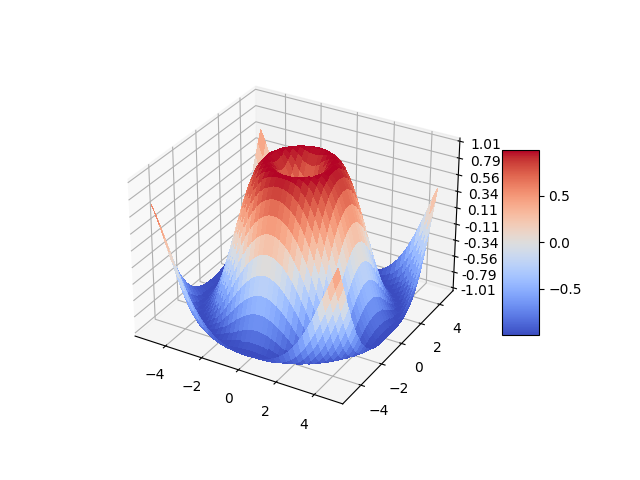
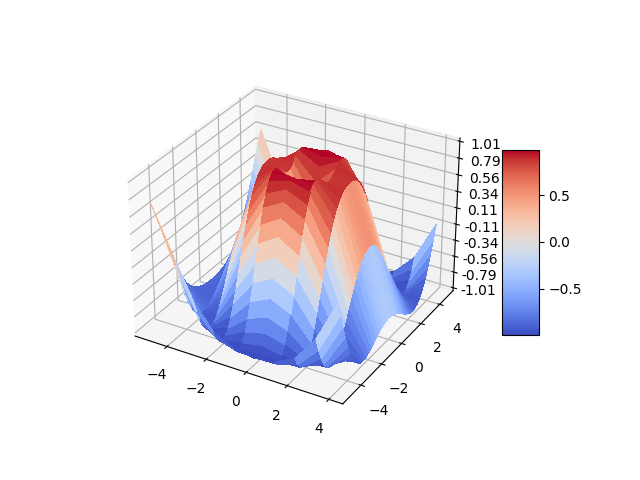
ma_stoerung_3d_plot

diff --git a/python/lyapunov_exponent.py b/python/lyapunov_exponent.py
@@ -30,8 +30,8 @@ def simu(sim, t):
     # Hide warning messages (WHFast timestep too large)
     with warnings.catch_warnings(record=True) as w:
          warnings.simplefilter("always")
-         sim.integrate(t*jov_yr)
-    return  sim,(sim.calculate_lyapunov()/(2.*np.pi)) # returns MEGNO and Lypunov exp in 1/years
+         sim.integrate(t)
+    return  sim,(sim.calculate_lyapunov()/(2.*np.pi)) # returns Lypunov exp in 1/years
 #--------------- plotlyapunov_t --------------------
 # lyapunov und zeit
 def plotlyapunov_t(lyapunov, times, k):
@@ -56,28 +56,44 @@ def plotlyapunov_a(l,a):
 def plotlyapunov_m(l,m):
     fig, ax1 = plt.subplots(1,1)
     ax1.set_xscale('log')
-    ax1.set(ylabel = 'Lyapunov-Exponent', xlabel = '$m$/$M_{Helga}$')
-    ax1.plot(m,l,'o-')
+    ax1.set(ylabel = 'Lyap.-Expo.', xlabel = '$m$/$M_{Helga}$')
+    if isinstance(l,list):
+        n_l = len(l)
+        for i in range(n_l):
+            steps = len(m[i])
+            ax1.plot(m[i],l[i],'o-', label = ' run %d with %d points' %(i,steps))
+    else: ax1.plot(m,l,'o-', label = 'a fixed')
+    ax1.legend()
     ax1.grid()
     return fig
-#---------------- plotlyapunov_mt ---------------------
-def plotlyapunov_ma(m,a,l):
+#---------------- plotlyapunov_mt_surface ---------------------
+def plotlyapunov_ma_surface(m,a,l):
     # print(m,a,l)
-    fig, ax = plt.subplots(subplot_kw={"projection": "3d"})
-    # m, a = np.meshgrid(m, a)
-    #ax.set_xscale('log')
-    # m,l = np.meshgrid(m,l)
-    ax.set(zlabel = 'Lyapunov-Exponent', xlabel = '$m$/$M_{Helga}$',
+    m = np.log10(m)
+    fig, ax = plt.subplots(subplot_kw={"projection": "3d"}, figsize=(10,8))
+    # print('shape m:', np.shape(m))
+    # print('shape a:', np.shape(a))
+    m, a = np.meshgrid(m, a)
+    print('shape m:', np.shape(m))
+    print('shape a:', np.shape(a))
+
+    # ax.set_xscale('log')
+    # ax.set_zscale('log')
+    ax.set(zlabel = 'Lyap.-Expo.', xlabel = '$\log_{10}$($m$/$M_{Helga})$',
                 ylabel= '$a$/$a_{Jupiter}$')
     # ax.set_xlim(1e-13, 1e-8)
     # ax.set_ylim(3.62,3.64 )
-    # Plot the surface.
+    # transpose lyapunovs
+    # print('shape l:', np.shape(l))
+    # l = np.log10(l)
+    l = np.transpose(l)
+    print('shape l:', np.shape(l))
+
+# Plot the surface.
     surf = ax.plot_surface(m, a, l, cmap=cm.coolwarm, linewidth=0, antialiased=False)
-    # Add a color bar which maps values to colors.
+# Add a color bar which maps values to colors.
     # fig.colorbar(surf, shrink=0.5, aspect=5)
     return fig
-
-
 # -------------- lyapunov_t_multiple ------------
 # creates a plot of lypanov-exponents over time for n EQUAL simulations of Helga
 # starting from given 'start' time and stepping in time with 'stepsize'
@@ -108,8 +124,9 @@ def lyapunov_t_multiple(n, start, end, steps):
     fig = plotlyapunov_t(lyapunov, times, k)
     fig.savefig('lyapunov_exp_t_mulitple.png')
 #------------------- plot lyapunov_a_multiple ------------
+# calculates lyap. expo. for a perturbation body of fixed mass and
+# varying distance to Helga
 # creates a plot of lyapunov-exponents over semi-major axis
-#
 def lyapunov_a_multiple(start,end,stepsize,t):
     # steps: number of setps
     steps = int((end-start)/stepsize) + 1
@@ -118,7 +135,6 @@ def lyapunov_a_multiple(start,end,stepsize,t):
     # lyapunov: Lyapunov-Exponenten
     H = np.arange(start,end,stepsize)
     lyapunov = np.zeros(steps)
-
     for i,h in enumerate(H):
         sim = visualize_orbit.setup('Helga',h) #jedes mal neu initialisiert
         # lyapunov = man_lyapunov(sim, [t])
@@ -126,7 +142,7 @@ def lyapunov_a_multiple(start,end,stepsize,t):
         lyapunov[i] = l
     fig = plotlyapunov_a(lyapunov,H)
     plt.title('Auswertung bei $t = %3d  2 \pi $' %t)
-    fig.savefig('lyapunov_exp_a_variation.png')
+    fig.savefig('lyapunov_exp_a_multiple.png')
 # -----------------------------------------------------------------
 def lyapunov_helga_m_stoerung(start, end, steps, t):
     # initialize arrays for data to be stored
@@ -136,9 +152,9 @@ def lyapunov_helga_m_stoerung(start, end, steps, t):
     masses = np.logspace(start, end, steps)
     # print(masses)
     m_Helga = 3e-13
-    a_Helga = 5.204
+    a_Jupiter = 5.204
     h = 0.696
-    a_stoer = (a_Helga+0.001)*h
+    a_stoer = (a_Jupiter+0.001)*h
     for k in range(0,steps,1):
         sim = visualize_orbit.setup('Helga',h)
         m_stoer = masses[k]*m_Helga
@@ -148,23 +164,51 @@ def lyapunov_helga_m_stoerung(start, end, steps, t):
         lyapunov[k] = l
     # print(lyapunov)
     fig = plotlyapunov_m(lyapunov, masses)
-    plt.title('$t = %3d  2 \pi $, $a_{Stoer}$/$a_{Jupiter}$ = %5.4f ' %(t,a_stoer))
-    fig.savefig('lyapunov_exp_m_variation.png')
+    plt.title('$t = %3d  2 \pi $, $a_{Stoer}$ = %5.4f ' %(t,a_stoer))
+    fig.savefig('lyapunov_exp_m_stoerung.png')
+
+#------------------ lyapunov_m_multiple_stoerung
+def lyapunov_m_multiple_stoerung(m_start,m_end,m_steps,m_t,m_runs):
+    lyapunovs_array = []
+    masses_array = []
+    m_Helga = 3e-13
+    a_Jupiter = 5.204
+    h = 0.696
+    a_stoer = (a_Jupiter+0.001)*h
+    for r in range(m_runs):
+        masses = (np.logspace(m_start, m_end, (2**r)*m_steps))
+        # print('Massen: ',masses, 'length: ', len(masses))
+        lyapunovs = [0]*((2**r)*m_steps)
+        for k in range((2**r)*m_steps):
+            m_stoer = masses[k] * m_Helga
+            sim = visualize_orbit.setup('Helga',h)
+            sim.add(m=m_stoer, a=a_stoer, M=38.41426796877275, omega=0.257, e=.08634521111588543 ,inc=0.0768 )  # Helga NASA
+            sim, l = simu(sim, m_t)
+            print(sim.N)
+            lyapunovs[k] = l
+        # print('lyapunovs: ' , lyapunovs, 'length: ', len(lyapunovs))
+        masses_array.append(masses)
+        lyapunovs_array.append(lyapunovs)
+    fig = plotlyapunov_m(lyapunovs_array, masses_array)
+    plt.title('$t = %3d  2 \pi $, $a_{Stoer}$ = %5.4f ' %(m_t,a_stoer))
+    fig.savefig('lyapunov_exp_m_multiple_stoerung.png')
+
 #----------------------------------------------------------------
 def lyapunov_helga_ma_stoerung(m_start,m_end,m_steps,a_start,a_end,a_steps,t):
     m_Helga = 3e-13
-    a_Helga = 5.204
+    a_Jupiter = 5.204
     h = 0.696
     # lyapunovs: O-array
     lyapunovs = np.zeros((m_steps, a_steps))
+    # print(lyapunovs)
     # masses: logaritmisch ansteigende Massenfaktoren
     masses = np.logspace(m_start, m_end, m_steps)
     masses2 = masses * m_Helga
-    print(masses2)
+    print('Massen: ',masses2)
     # a: linear ansteigende Halbachsenfaktoren
     a = np.linspace(a_start, a_end, a_steps)
-    a2= a*a_Helga
-    print(a2)
+    a2 = a*a_Jupiter
+    print('Halbachsen: ',a2)
     for k in range(0,m_steps,1):
         for j in range(0,a_steps,1):
             sim = visualize_orbit.setup('Helga',h)
@@ -173,12 +217,14 @@ def lyapunov_helga_ma_stoerung(m_start,m_end,m_steps,a_start,a_end,a_steps,t):
             sim.add(m=m_stoer, a=a_stoer, M=38.41426796877275, omega=0.257, e=.08634521111588543 ,inc=0.0768 )  # Helga NASA
             # lyapunov = man_lyapunov(sim, [t])
             sim, l = simu(sim, t)
+            if l < 0:
+                l = 1e-8
             # print(l)
             lyapunovs[k,j] = l
-    #print(lyapunovs)
-    fig = plotlyapunov_ma(masses, a, lyapunovs)
+    # print(lyapunovs)
+    fig1 = plotlyapunov_ma_surface(masses, a, lyapunovs)
     plt.title('$t = %3d$ years' %(t))
-    fig.savefig('lyapunov_exp_ma_stoerung.png')
+    fig1.savefig('lyapunov_exp_ma_stoerung.png')
 
 #----------------------------------------------------------------
 #-------------------- set parameters for functions---------------
@@ -193,16 +239,22 @@ a_end_1 = 0.699
 a_stepsize_1 = 0.00005
 
 m_start = 1 # m_start: starting exponent base 10
-m_end = 3 # m_end: ending exponent base 10
-m_steps = 50
-m_t = 1e3
-a_start_2 = 0.698
+m_end = 10 # m_end: ending exponent base 10
+m_steps = 30 # m_steps: Mindestanzahl an Schritten
+m_t = 1e5
+m_runs = 4 # m_runs: wie oft soll die Schrittzahl verdoppelt werden
+
+m_start_2 = 1 # m_start: starting exponent base 10
+m_end_2 = 6 # m_end: ending exponent base 10
+m_steps_2 = 60
+a_start_2 = 0.697
 a_end_2 = 0.701
-a_steps_2 = 30
-t = 5e4
+a_steps_2 = 20
+t = 1e5
 
 if __name__ == "__main__":
     # lyapunov_t_multiple(t_n, t_start, t_end, t_steps)
     # lyapunov_a_multiple( a_start_1, a_end_1, a_stepsize_1, a_t)
     # lyapunov_helga_m_stoerung(m_start,m_end,m_steps,m_t)
-    lyapunov_helga_ma_stoerung(m_start,m_end,m_steps,a_start_2,a_end_2,a_steps_2,t)
+    # lyapunov_m_multiple_stoerung(m_start,m_end,m_steps,m_t,m_runs)
+    lyapunov_helga_ma_stoerung(m_start_2,m_end_2,m_steps_2,a_start_2,a_end_2,a_steps_2,t)

diff --git a/python/test_lyapunov.py b/python/test_lyapunov.py
@@ -26,7 +26,8 @@ def test_1():
     print('L_exp 1:  ', round(l1,3), '   L_exp 2:  ', round(l2,3))
 
 def test_2():
-    a = [16,64,256,1024,4098]
+    # a = [16,64,256,1024,4098]
+    a = [2,4,8]
     Lyapunov=[]
     S=[]
     T = []
@@ -42,6 +43,7 @@ def test_2():
             sim.integrate(time)
             exp = round(sim.calculate_lyapunov(),4)
             l[k] = exp
+            # sim.status()
         Lyapunov.append(l)
         T.append(times)
         s = round(sum(Lyapunov[i]),3)

diff --git a/python/trash.py b/python/trash.py
@@ -6,11 +6,11 @@ import numpy as np
 fig, ax = plt.subplots(subplot_kw={"projection": "3d"})
 
 # Make data.
-X = np.arange(-5, 5, 0.25)
+X = np.arange(-5, 5, 1)
 Y = np.arange(-5, 5, 0.25)
 X, Y = np.meshgrid(X, Y)
 R = np.sqrt(X**2 + Y**2)
-Z = np.sin(R)
+Z = np.sin(R) # X**0 -Y**0
 
 # Plot the surface.
 surf = ax.plot_surface(X, Y, Z, cmap=cm.coolwarm,
